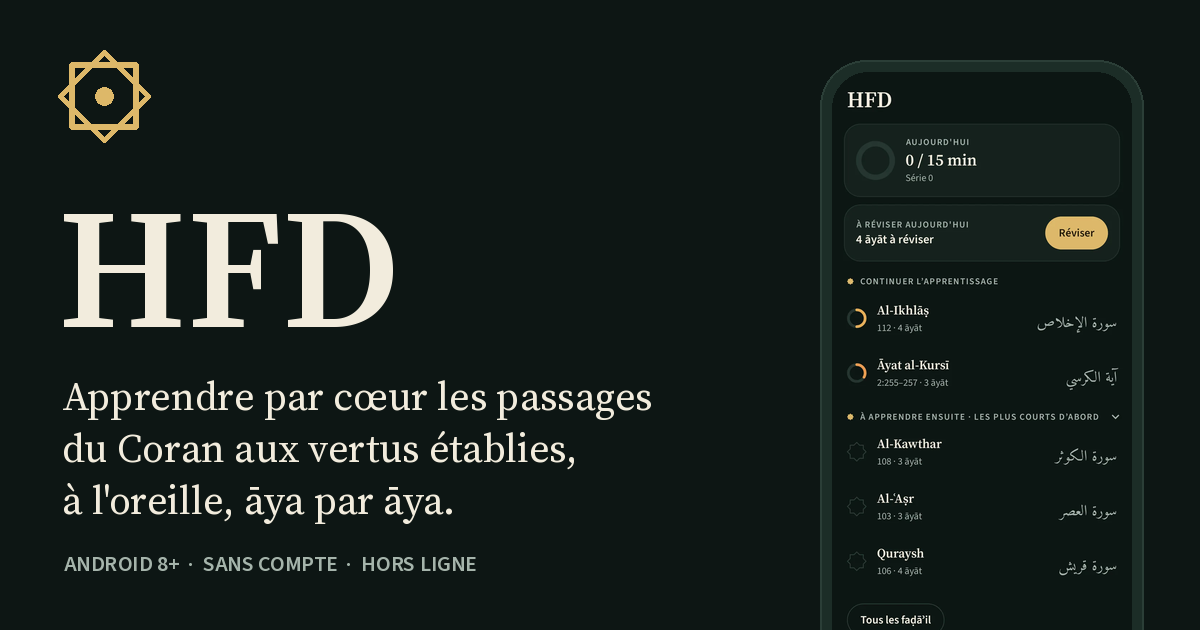
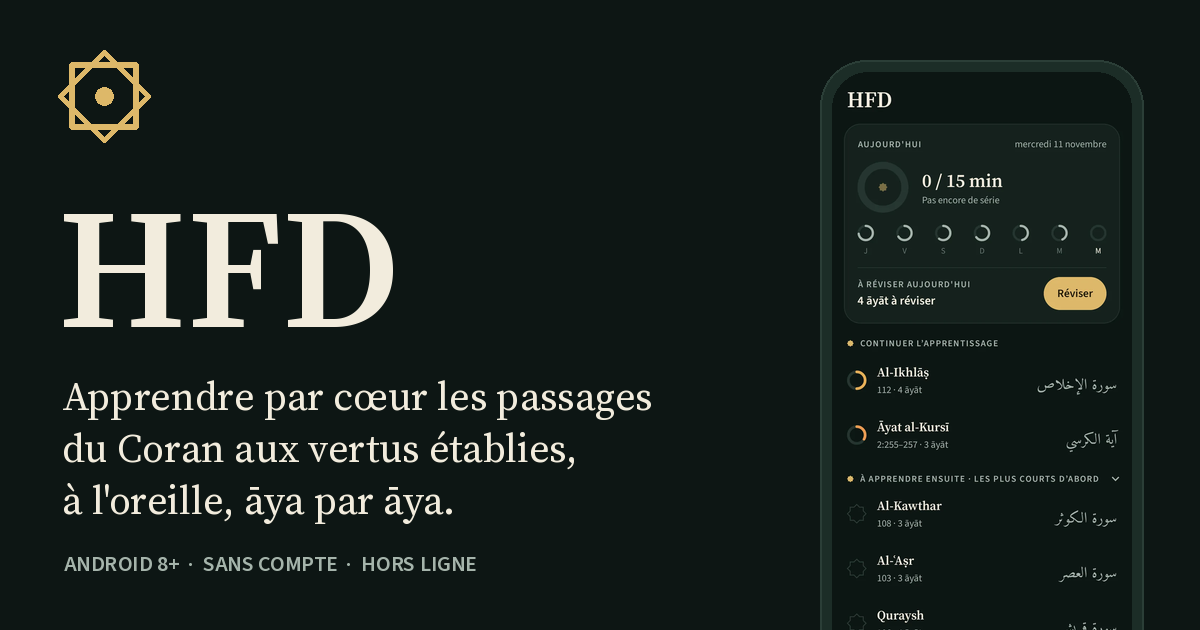
The website shows the tajwīd legend
Claude-Session: https://claude.ai/code/session_01FKf9zqJdVpuNJCmS7L1WKn

diff --git a/docs/index.html b/docs/index.html
@@ -457,7 +457,7 @@ footer a { color: var(--dim); }
             <img src="screenshots/kursi-text.webp" width="840" height="1848" alt="Āyat al-Kursī en lecture : sourate al-Baqara, 2:255 en texte uthmani ; en bas, la barre d&#x27;écoute avec le bouton Réciter."><img class="paper" src="screenshots/kursi-text-paper.webp" width="840" height="1848" alt="" aria-hidden="true">
           </div>
           <div class="phone front">
-            <img src="screenshots/home.webp" width="840" height="1848" alt="Accueil de HFD : objectif du jour de 15 minutes, 4 āyāt à réviser, Al-Ikhlāṣ et Āyat al-Kursī à continuer, Al-Kawthar et Al-ʿAṣr à apprendre ensuite."><img class="paper" src="screenshots/home-paper.webp" width="840" height="1848" alt="" aria-hidden="true">
+            <img src="screenshots/home.webp" width="840" height="1848" alt="Accueil de HFD : la carte du jour (objectif de 15 minutes, la semaine, 4 āyāt à réviser), puis Al-Ikhlāṣ et Āyat al-Kursī à continuer, Al-Kawthar et Al-ʿAṣr à apprendre ensuite."><img class="paper" src="screenshots/home-paper.webp" width="840" height="1848" alt="" aria-hidden="true">
           </div>
         </div>
         <p class="label">Accueil et lecture d'Āyat al&#8209;Kursī. Nuit ou papier&nbsp;: essayez le bouton en haut de la page.</p>
@@ -475,7 +475,7 @@ footer a { color: var(--dim); }
 
       <div class="shots">
         <figure class="shot">
-          <div class="phone"><img src="screenshots/home.webp" width="840" height="1848" loading="lazy" alt="Accueil de HFD : objectif du jour de 15 minutes, 4 āyāt à réviser, Al-Ikhlāṣ et Āyat al-Kursī à continuer, Al-Kawthar et Al-ʿAṣr à apprendre ensuite."><img class="paper" src="screenshots/home-paper.webp" width="840" height="1848" loading="lazy" alt="" aria-hidden="true"></div>
+          <div class="phone"><img src="screenshots/home.webp" width="840" height="1848" loading="lazy" alt="Accueil de HFD : la carte du jour (objectif de 15 minutes, la semaine, 4 āyāt à réviser), puis Al-Ikhlāṣ et Āyat al-Kursī à continuer, Al-Kawthar et Al-ʿAṣr à apprendre ensuite."><img class="paper" src="screenshots/home-paper.webp" width="840" height="1848" loading="lazy" alt="" aria-hidden="true"></div>
           <figcaption><span class="label">Accueil</span><p>L'objectif du jour, les āyāt à réviser, puis la suite de ce que vous apprenez.</p></figcaption>
         </figure>
         <figure class="shot">
@@ -495,12 +495,16 @@ footer a { color: var(--dim); }
           <figcaption><span class="label">Une sourate</span><p>Son texte et sa traduction, l'āya récitée suivie à l'écran. À la fin, la sourate suivante s'enchaîne.</p></figcaption>
         </figure>
         <figure class="shot">
+          <div class="phone"><img src="screenshots/tajweed.webp" width="840" height="1848" loading="lazy" alt="Légende du tajwīd : un verset d&#x27;al-Baqara aux lettres colorées, puis les couleurs des madd de 6, de 4 ou 5, de 2-4-6 et de 2 temps, de la ghunna et de la qalqala, chacune avec son interrupteur."><img class="paper" src="screenshots/tajweed-paper.webp" width="840" height="1848" loading="lazy" alt="" aria-hidden="true"></div>
+          <figcaption><span class="label">Tajwīd</span><p>Les lettres prennent la couleur de leur règle, comme dans les muṣḥafs de tajwīd&nbsp;; chaque couleur se choisit.</p></figcaption>
+        </figure>
+        <figure class="shot">
           <div class="phone"><img src="screenshots/learn.webp" width="840" height="1848" loading="lazy" alt="Apprendre Al-Ikhlāṣ, āya 4 sur 4 : étape Écouter, le texte de 112:4 et sa traduction, boutons Réécouter, Passer et Suivant."><img class="paper" src="screenshots/learn-paper.webp" width="840" height="1848" loading="lazy" alt="" aria-hidden="true"></div>
           <figcaption><span class="label">Apprendre</span><p>Écouter avec le texte, répéter dans les pauses, le premier mot seul, puis de mémoire.</p></figcaption>
         </figure>
         <figure class="shot">
           <div class="phone"><img src="screenshots/recite.webp" width="840" height="1848" loading="lazy" alt="Réciter Al-Ikhlāṣ : les trois premières āyāt reconnues, « wa-lam » barré en rouge, la quatrième encore en attente, bouton micro."><img class="paper" src="screenshots/recite-paper.webp" width="840" height="1848" loading="lazy" alt="" aria-hidden="true"></div>
-          <figcaption><span class="label">Réciter</span><p>Récitez au micro&nbsp;: les mots s'allument un à un, le mot sauté est barré en rouge.</p></figcaption>
+          <figcaption><span class="label">Réciter</span><p>Récitez au micro&nbsp;: les mots s'allument un à un, le mot sauté est barré en rouge&nbsp;; sur demande, les madd non tenus sont soulignés.</p></figcaption>
         </figure>
         <figure class="shot">
           <div class="phone"><img src="screenshots/review.webp" width="840" height="1848" loading="lazy" alt="Révision : Al-Baqara 2:255, texte caché, boutons Indice et Dévoiler."><img class="paper" src="screenshots/review-paper.webp" width="840" height="1848" loading="lazy" alt="" aria-hidden="true"></div>

diff --git a/tools/site/build.py b/tools/site/build.py
@@ -96,7 +96,7 @@ def reciter_count():
 SHOTS = [
     ("home", "Accueil",
      "L'objectif du jour, les āyāt à réviser, puis la suite de ce que vous apprenez.",
-     "Accueil de HFD : objectif du jour de 15 minutes, 4 āyāt à réviser, Al-Ikhlāṣ et Āyat al-Kursī à continuer, Al-Kawthar et Al-ʿAṣr à apprendre ensuite."),
+     "Accueil de HFD : la carte du jour (objectif de 15 minutes, la semaine, 4 āyāt à réviser), puis Al-Ikhlāṣ et Āyat al-Kursī à continuer, Al-Kawthar et Al-ʿAṣr à apprendre ensuite."),
     ("fadail", "Les 40 passages",
      "Ceux de l'app de référence, dans son ordre, chacun avec son anneau de progression. «&nbsp;Tout écouter&nbsp;» les enchaîne.",
      "Onglet Faḍāʾil : 40 passages, d'al-Fātiḥa à la fin d'at-Tawba, avec leur titre arabe et le bouton Tout écouter."),
@@ -109,11 +109,14 @@ SHOTS = [
     ("sura", "Une sourate",
      "Son texte et sa traduction, l'āya récitée suivie à l'écran. À la fin, la sourate suivante s'enchaîne.",
      "Sourate al-Kahf : son titre encadré, la basmala, les āyāt 18:1 et 18:2 avec leur traduction ; en bas, la barre d'écoute (reprendre à 18:10) avec le bouton Réciter."),
+    ("tajweed", "Tajwīd",
+     "Les lettres prennent la couleur de leur règle, comme dans les muṣḥafs de tajwīd&nbsp;; chaque couleur se choisit.",
+     "Légende du tajwīd : un verset d'al-Baqara aux lettres colorées, puis les couleurs des madd de 6, de 4 ou 5, de 2-4-6 et de 2 temps, de la ghunna et de la qalqala, chacune avec son interrupteur."),
     ("learn", "Apprendre",
      "Écouter avec le texte, répéter dans les pauses, le premier mot seul, puis de mémoire.",
      "Apprendre Al-Ikhlāṣ, āya 4 sur 4 : étape Écouter, le texte de 112:4 et sa traduction, boutons Réécouter, Passer et Suivant."),
     ("recite", "Réciter",
-     "Récitez au micro&nbsp;: les mots s'allument un à un, le mot sauté est barré en rouge.",
+     "Récitez au micro&nbsp;: les mots s'allument un à un, le mot sauté est barré en rouge&nbsp;; sur demande, les madd non tenus sont soulignés.",
      "Réciter Al-Ikhlāṣ : les trois premières āyāt reconnues, « wa-lam » barré en rouge, la quatrième encore en attente, bouton micro."),
     ("review", "Réviser",
      "Ce qui est dû aujourd'hui, texte caché&nbsp;: réciter de mémoire, dévoiler, noter.",
